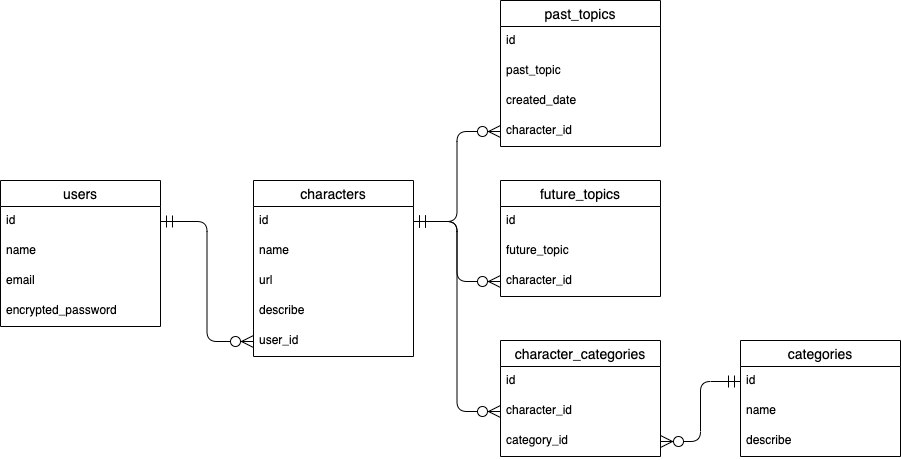
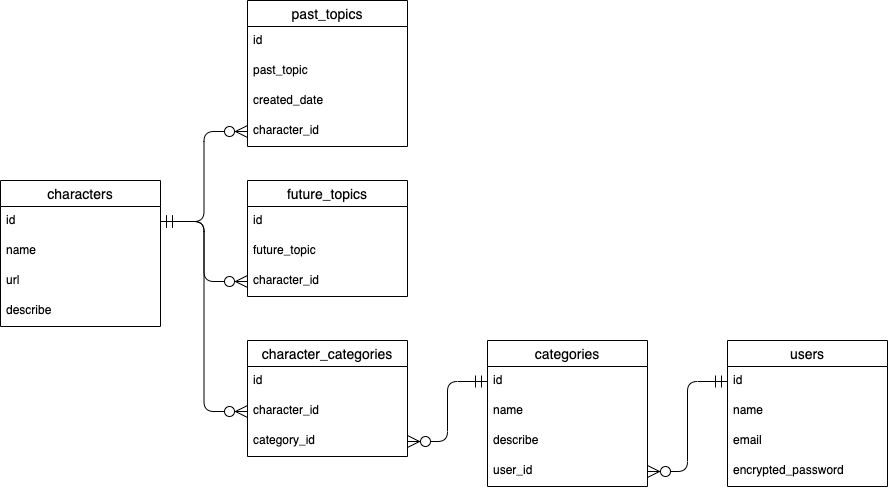
DB設計修正
Userモデルのアソシエーション先を変更

diff --git a/README.md b/README.md
@@ -10,25 +10,23 @@
 
 ### Association
 
-- has_many :characters
+- has_many :categories, dependent: :destroy
 
 ## characters テーブル
 
-| Column   | Type       | Options                        |
-| -------- | ---------- | ------------------------------ |
-| name     | string     | null: false                    |
-| url      | string     |                                |
-| describe | text       |                                |
-| user_id  | references | null: false, foreign_key: true |
+| Column   | Type   | Options     |
+| -------- | ------ | ----------- |
+| name     | string | null: false |
+| url      | string |             |
+| describe | text   |             |
 
 - image保存はActiveStorageを使用
 
 ### Association
 
-- belongs_to :user
-- has_many :past_topics, dependent: destroy
-- has_many :future_topics, dependent: destroy
-- has_many :categories, through: character_categories, dependent: destroy
+- has_many :past_topics, dependent: :destroy
+- has_many :future_topics, dependent: :destroy
+- has_many :categories, through: :character_categories, dependent: :destroy
 
 ## past_topics テーブル
 
@@ -67,11 +65,13 @@
 
 ## categories テーブル
 
-| Column   | Type   | Options     |
-| -------- | ------ | ----------- |
-| name     | string | null: false |
-| describe | text   |             |
+| Column   | Type       | Options                        |
+| -------- | ---------- | ------------------------------ |
+| name     | string     | null: false                    |
+| describe | text       |                                |
+| user     | references | null: false, foreign_key: true |
 
 ### Association
 
-- has_many: characters, through :character_categories
+- belongs_to: user
+- has_many: characters, through: :character_categories
